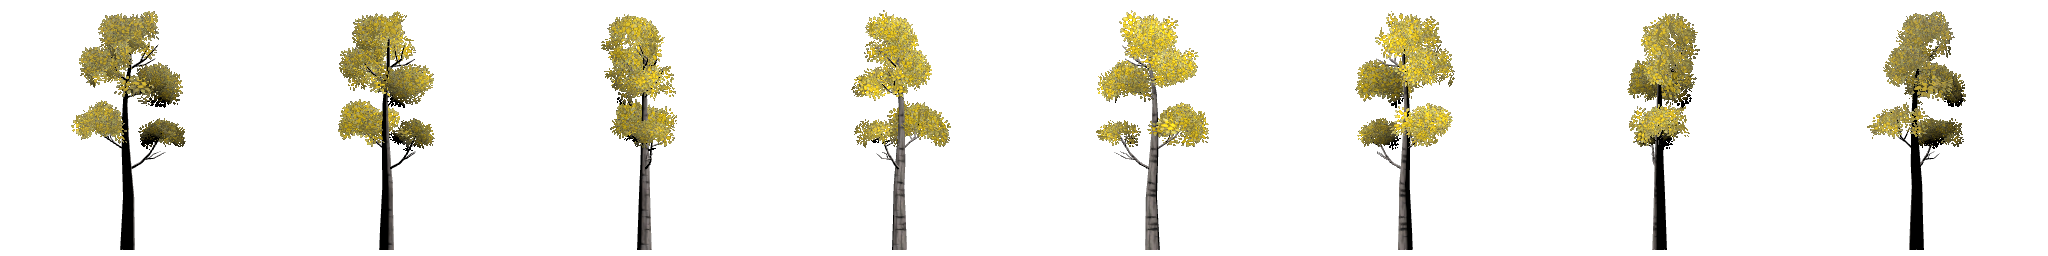
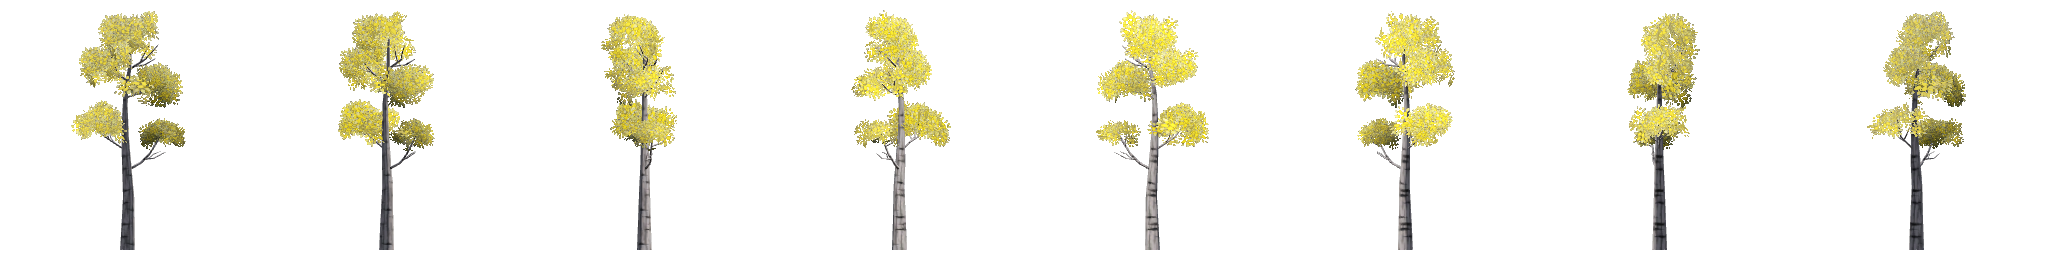
Update script to run as tool

diff --git a/assets/godot-shaders/shaders/billboard/impostor/README.md b/assets/godot-shaders/shaders/billboard/impostor/README.md
@@ -46,15 +46,17 @@ shader's `angle_offset_deg` uniform to realign it without rebaking.
 
 ## Step 1 — Bake the Atlas
 
-1. Create a new empty scene with a `Node3D` root.
-2. Attach `impostor_baker.gd` to the root.
+1. Add a `Node3D` anywhere in any open scene (a dedicated `res://tools/`
+   scene works well, but it can live temporarily in the model's own scene).
+2. Attach `impostor_baker.gd` to it. The script is a `@tool` script — it runs
+   inside the editor, no scene execution required.
 3. Configure the exported properties in the Inspector:
 
 | Property | Meaning | Notes |
 |----------|---------|-------|
 | `source_scene_path` | Scene to bake (`.tscn`, `.glb`, `.gltf`) | Root must be a `Node3D`. |
 | `output_path` | Where the PNG atlas is written | e.g. `res://impostors/tree_atlas.png`. Used as the pre-filled suggestion when the save dialog is enabled. |
-| `ask_output_path` | Show a save dialog on run | **On by default.** A `FileDialog` opens when the scene starts; pick where to save the atlas. Cancelling aborts the bake. Turn off for unattended/repeat bakes using `output_path` directly. |
+| `ask_output_path` | Show a save dialog when baking | **On by default.** A `FileDialog` opens when you click **Bake Atlas**; pick where to save. Cancelling aborts the bake. Turn off for unattended/repeat bakes using `output_path` directly. |
 | `frame_count` | Number of views around the Y axis | 8 = visible popping, 16 = good default, 32 = very smooth. |
 | `columns` | Frames per atlas row | 16 frames / 4 columns = 4×4 grid; 8 / 8 = single horizontal strip. |
 | `frame_size` | Pixel size of each cell (square) | 256 is a good starting point; 512 for hero props. |
@@ -71,8 +73,9 @@ at the origin), and sizes the view to
 `max(height, XZ-footprint diagonal) × (1 + margin)` — the diagonal is used
 because that is the widest the model can appear as the camera circles it.
 
-4. Run the scene (**F6**). It prints progress per frame, saves the PNG, and
-   quits automatically.
+4. Click the **Bake Atlas** button at the top of the Inspector. Progress is
+   printed to the Output panel, the PNG is saved, and the FileSystem dock is
+   rescanned automatically so the atlas appears immediately.
 5. Select the generated PNG in the FileSystem dock. Recommended import
    settings: keep **Mipmaps** on for distant objects (see Troubleshooting for
    the bleeding caveat), no compression artifacts issues expected with
